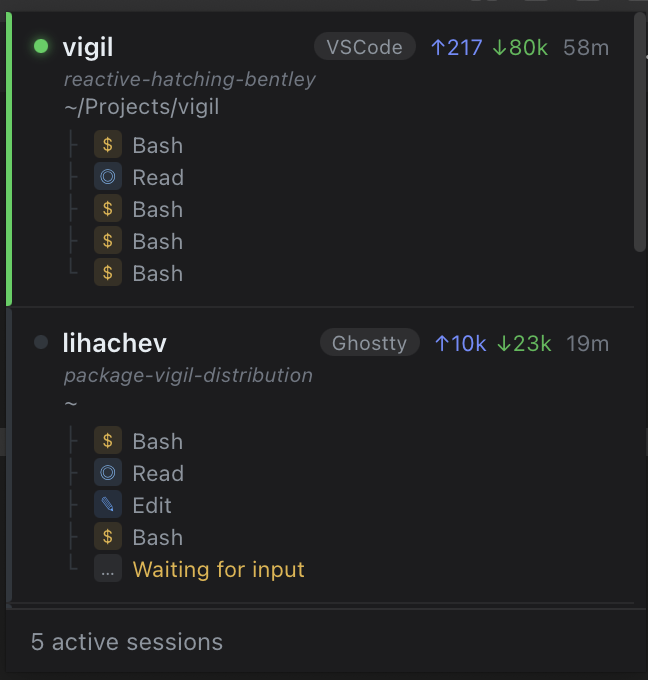
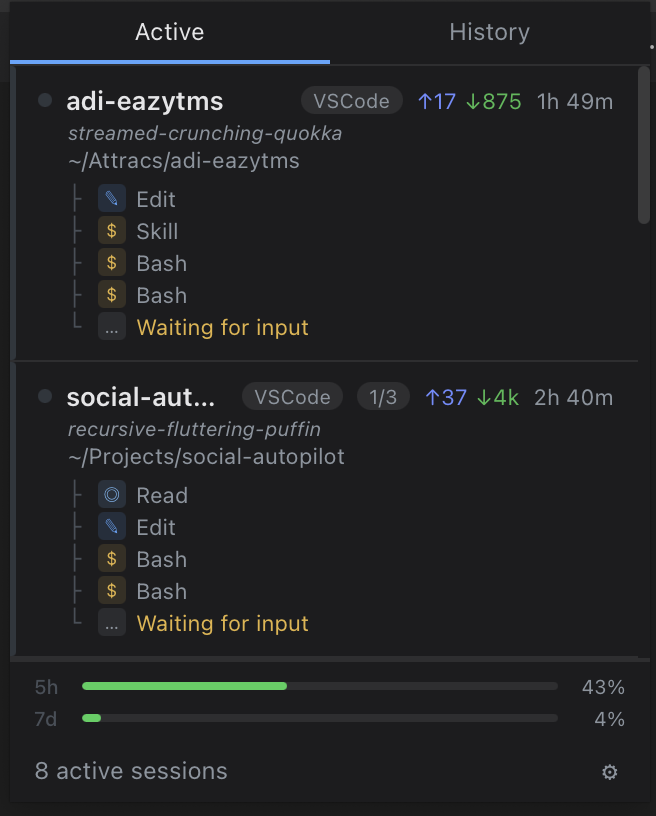
Readme updated

diff --git a/README.md b/README.md
@@ -18,7 +18,9 @@ Vigil sits in your menubar and polls Claude Code's local data files every 3 seco
 
 **Menubar badge** — shows a count of sessions that need attention right on the tray icon.
 
-**Settings panel** — click the gear icon to toggle notifications and badge per status type.
+**Rate limits** — displays your Claude Code 5-hour and 7-day usage as progress bars in the status bar. Requires enabling the status line bridge in settings (hooks into Claude Code's `statusLine` config).
+
+**Settings panel** — click the gear icon to toggle notifications, badge, and rate limit display per status type.
 
 **Auto-update check** — checks GitHub Releases at startup and weekly. An orange dot on the gear icon indicates a new version is available.
 